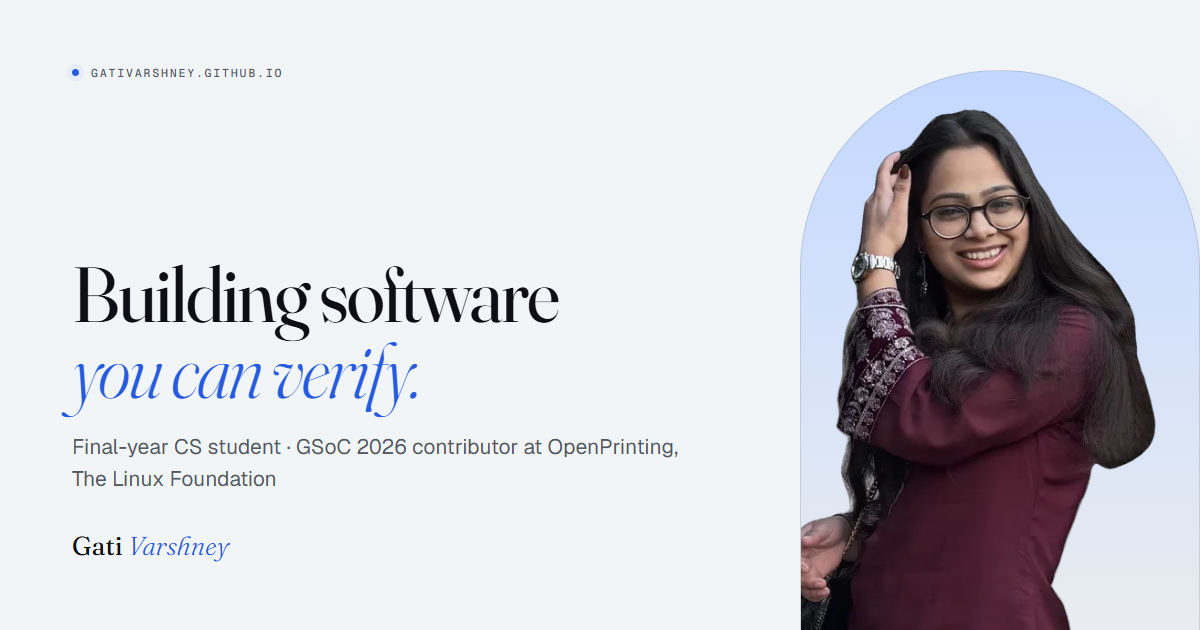
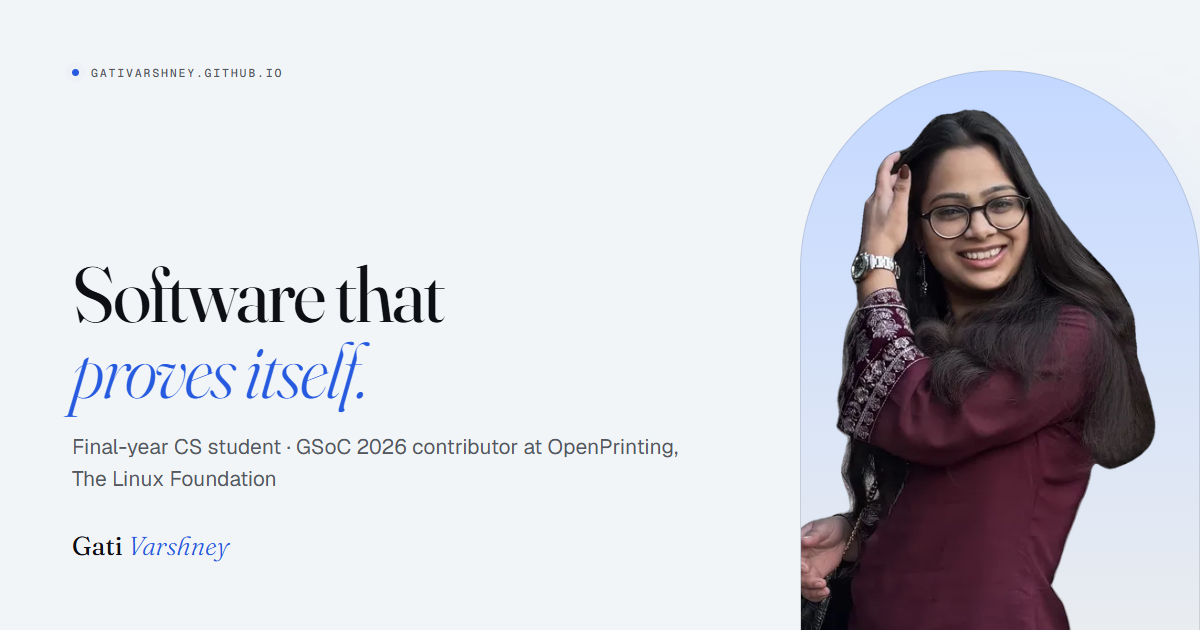
Headline: Software that proves itself; minimal page titles

Changed region(s): [[0.0617, 0.4222, 0.4625, 0.5429], [0.0617, 0.5429, 0.3392, 0.6635], [0.0308, 0.6333, 0.0617, 0.6635]]

diff --git a/src/data/site.ts b/src/data/site.ts
@@ -1,7 +1,7 @@
 export const site = {
   name: 'Gati Varshney',
   url: 'https://gativarshney.github.io',
-  title: 'Gati Varshney — Building software you can verify',
+  title: 'Gati Varshney',
   description:
     'Gati Varshney is a final-year CS student and Google Summer of Code 2026 contributor at OpenPrinting (The Linux Foundation). Developer tools and data systems, measured honestly.',
   email: 'gativarshney01@gmail.com',
